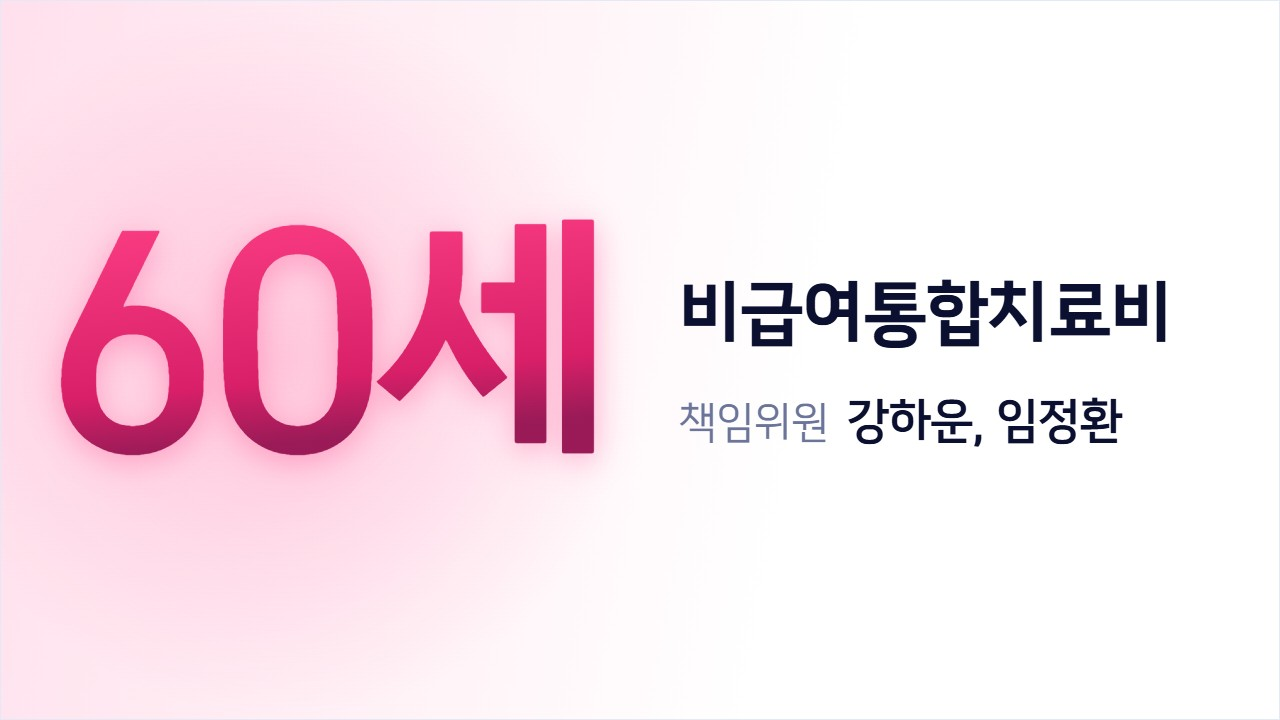
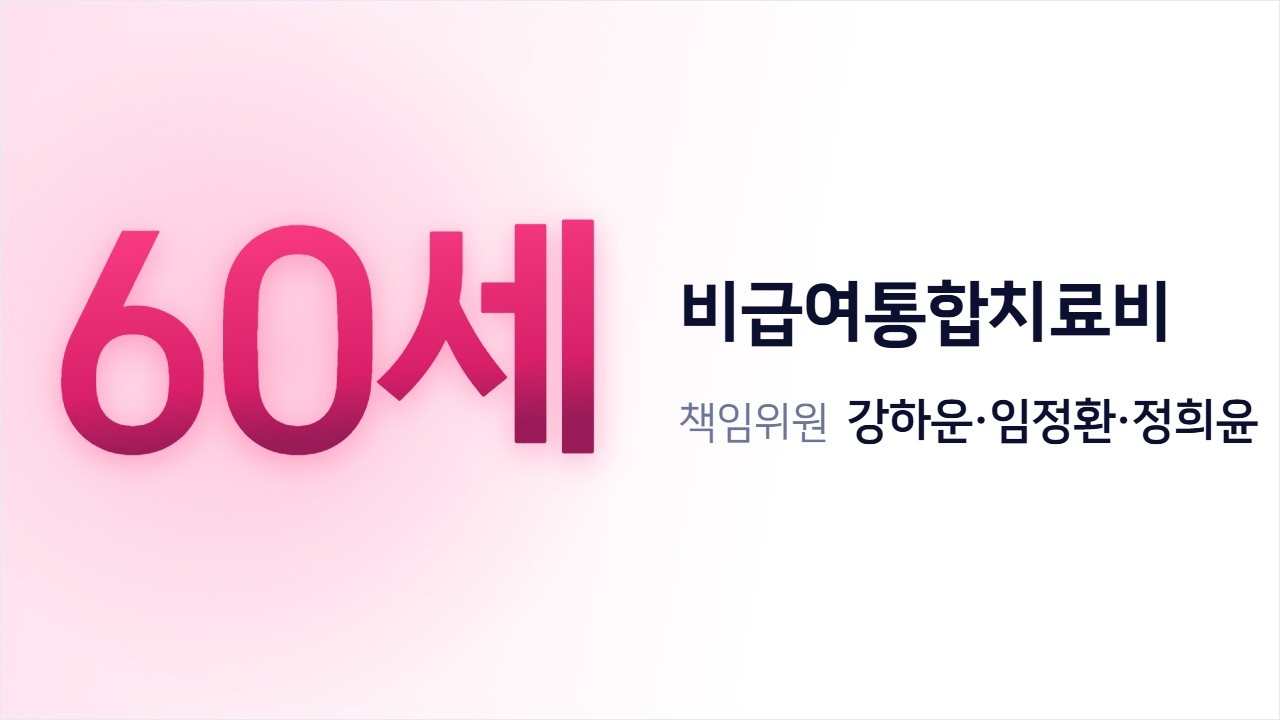
자료실 업데이트 · [시그니처클래스📖] 50세 암치료비, 비급여부터 점검하세요!

Changed region(s): [[0.75, 0.55, 1.0, 0.6111]]

diff --git a/research/2611/a4oi54/index.html b/research/2611/a4oi54/index.html
@@ -4,8 +4,8 @@
 <meta charset="utf-8">
 <base href="../../../">
 <meta property="og:title" content="비급여통합치료비 상품연구 전략자료 모음(업데이트 중) 60세 비급여통합치료비 상품연구 전략자료">
-<meta property="og:description" content="교육자료 2개">
-<meta property="og:image" content="https://samsungfire-fs.github.io/sdp_edu/assets/research/t-2611-a4oi54.jpg?v=e9de548e">
+<meta property="og:description" content="교육자료 3개">
+<meta property="og:image" content="https://samsungfire-fs.github.io/sdp_edu/assets/research/t-2611-a4oi54.jpg?v=0019478e">
 <meta property="og:url" content="https://samsungfire-fs.github.io/sdp_edu/research/2611/a4oi54/">
 <meta property="og:type" content="website">
 <meta property="og:site_name" content="영업개발파트 교육 자료">
@@ -14,7 +14,7 @@
 <meta name="referrer" content="strict-origin-when-cross-origin">
 <meta name="robots" content="noindex, nofollow">
 <title>삼성화재금융서비스 교육 자료실</title>
-<meta name="description" content="교육자료 2개">
+<meta name="description" content="교육자료 3개">
 <meta name="theme-color" content="#000000">
 <style>/* #256 · #263 인트로를 할 첫 진입: 첫 그림부터 한 가지 색 — 아이폰이 앱을 켤 때 먼저 칠하는 완전 검정 #000과 같게(라이트여도) · CSS 파일보다 먼저 */html.itr-pre,html.itr-pre body{background:#000!important}html.itr-pre body>*{visibility:hidden}</style>
 <script>/* 라이트/다크: 저장된 값(11-17 사용자: 없으면 다크가 기본)을 CSS보다 먼저 붙여 깜빡임 방지 · #256 휴대폰 위 띠 색(theme-color)도 바로 맞춤(전엔 처음에 밝은 색 #F1F3FA였음) */(function(){var t;try{t=localStorage.getItem("sdp-theme")}catch(e){}if(t!=="dark"&&t!=="light")t="dark";document.documentElement.setAttribute("data-theme",t);var m=document.querySelector('meta[name="theme-color"]');if(m)m.setAttribute("content",t==="dark"?"#07080C":"#F1F3FA")})();</script>

diff --git a/research/2611/index.html b/research/2611/index.html
@@ -4,7 +4,7 @@
 <meta charset="utf-8">
 <base href="../../">
 <meta property="og:title" content="비급여통합치료비 상품연구 전략자료 모음(업데이트 중) 상품연구 전략자료">
-<meta property="og:description" content="연령 5개 · 자료 13개">
+<meta property="og:description" content="연령 5개 · 자료 14개">
 <meta property="og:image" content="https://samsungfire-fs.github.io/sdp_edu/assets/research/t-2611.jpg?v=f57e9283">
 <meta property="og:url" content="https://samsungfire-fs.github.io/sdp_edu/research/2611/">
 <meta property="og:type" content="website">
@@ -14,7 +14,7 @@
 <meta name="referrer" content="strict-origin-when-cross-origin">
 <meta name="robots" content="noindex, nofollow">
 <title>삼성화재금융서비스 교육 자료실</title>
-<meta name="description" content="연령 5개 · 자료 13개">
+<meta name="description" content="연령 5개 · 자료 14개">
 <meta name="theme-color" content="#000000">
 <style>/* #256 · #263 인트로를 할 첫 진입: 첫 그림부터 한 가지 색 — 아이폰이 앱을 켤 때 먼저 칠하는 완전 검정 #000과 같게(라이트여도) · CSS 파일보다 먼저 */html.itr-pre,html.itr-pre body{background:#000!important}html.itr-pre body>*{visibility:hidden}</style>
 <script>/* 라이트/다크: 저장된 값(11-17 사용자: 없으면 다크가 기본)을 CSS보다 먼저 붙여 깜빡임 방지 · #256 휴대폰 위 띠 색(theme-color)도 바로 맞춤(전엔 처음에 밝은 색 #F1F3FA였음) */(function(){var t;try{t=localStorage.getItem("sdp-theme")}catch(e){}if(t!=="dark"&&t!=="light")t="dark";document.documentElement.setAttribute("data-theme",t);var m=document.querySelector('meta[name="theme-color"]');if(m)m.setAttribute("content",t==="dark"?"#07080C":"#F1F3FA")})();</script>
